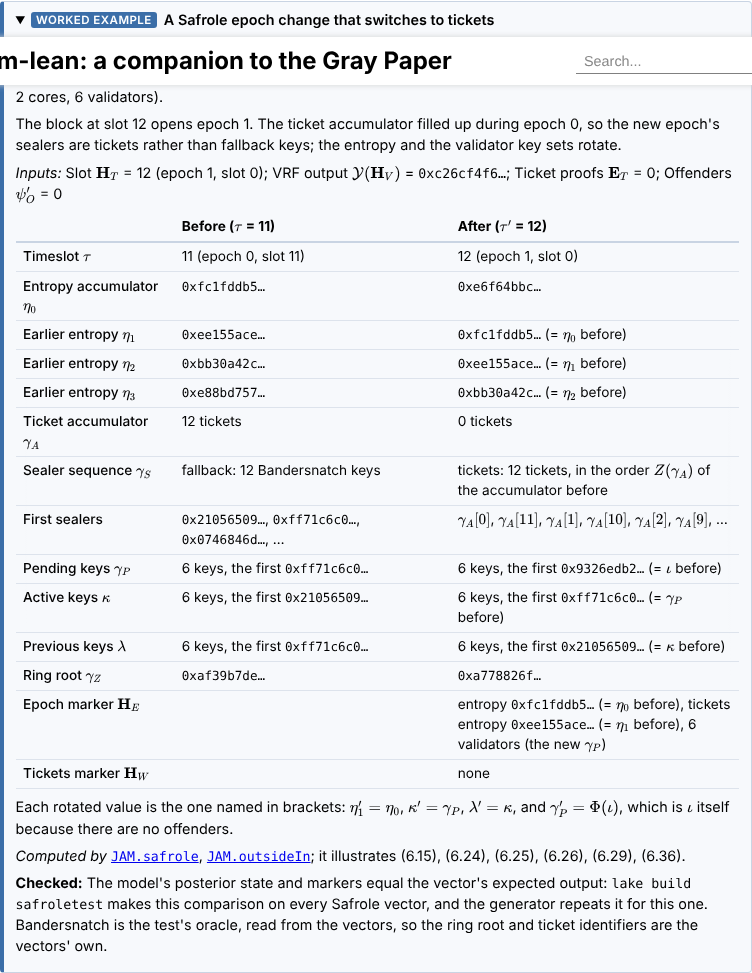
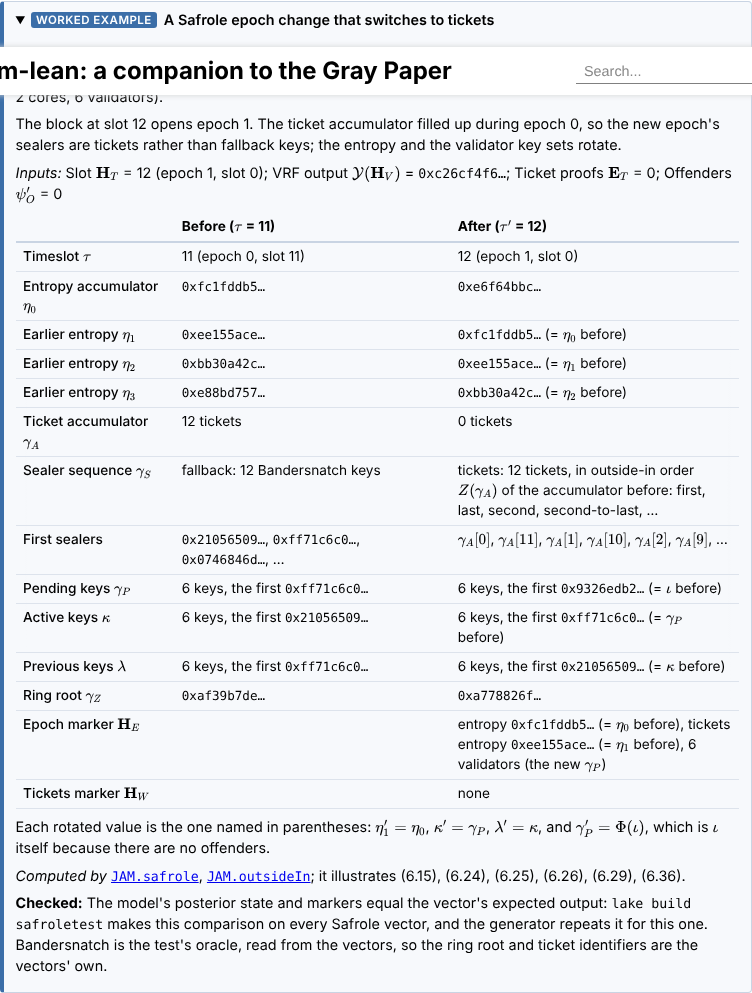
Book examples: apply review
- Generator doc: computed (after) values come from the model; before and input values from the vector.
- accumulate-always: X for transfers, and a note saying what N, X and G count.
- accumulate-queue: "(already queued)"; the queue size 2 → 4 in the Outcome cell.
- Safrole: list the sealer function of the case taken (outsideIn or fallbackKeys); spell out Z's order.
- PVM: block cost in its own column; nowrapColumns keeps Instruction and Gas on one line.

Claude-Session: https://claude.ai/code/session_01FAPLsdqSfWn6Wy3NMppSBC

diff --git a/docs/site/README.md b/docs/site/README.md
@@ -105,8 +105,8 @@ To add an example:
 1. In a topic module `Tests/Examples/<Topic>.lean` (importing `Tests.Examples.Basic`, which holds
    the `Example` type and the formatting helpers), write a function returning an `Example`: run the model on the vector
    and check the result against the vector with the suite's own comparison (as `safroleExample`,
-   `runAcc` and `pvmExample` do), then fill in the fields from the model's result, never from the
-   vector. Keep a box readable: a dozen rows of plain-English labels with the paper's symbols,
+   `runAcc` and `pvmExample` do), then fill in the fields: every computed (after) value from the
+   model's result, before and input values from the vector. Keep a box readable: a dozen rows of plain-English labels with the paper's symbols,
    hashes abbreviated (`abbr`), long lists given as counts or the first few entries. Text fields may
    use `$…$` (inline math with the paper's macros) and `` `…` `` (code). `model` lists full
    declaration names the chapter imports; `equations` lists the paper's equation numbers. Name a
